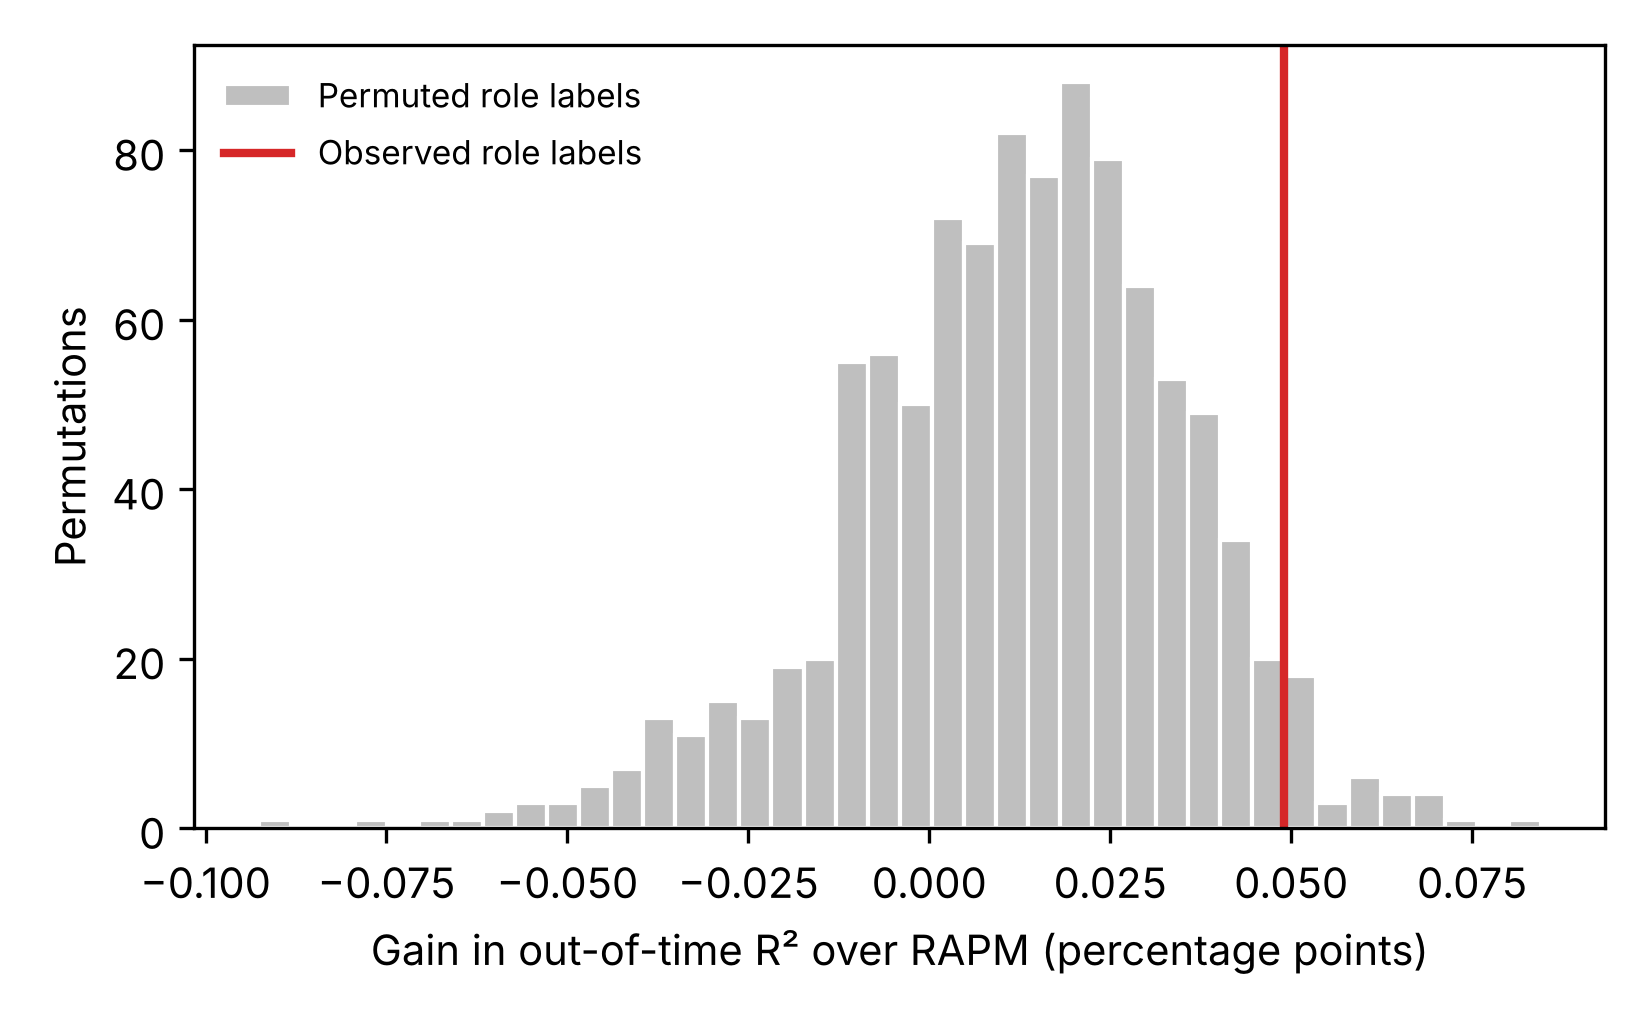
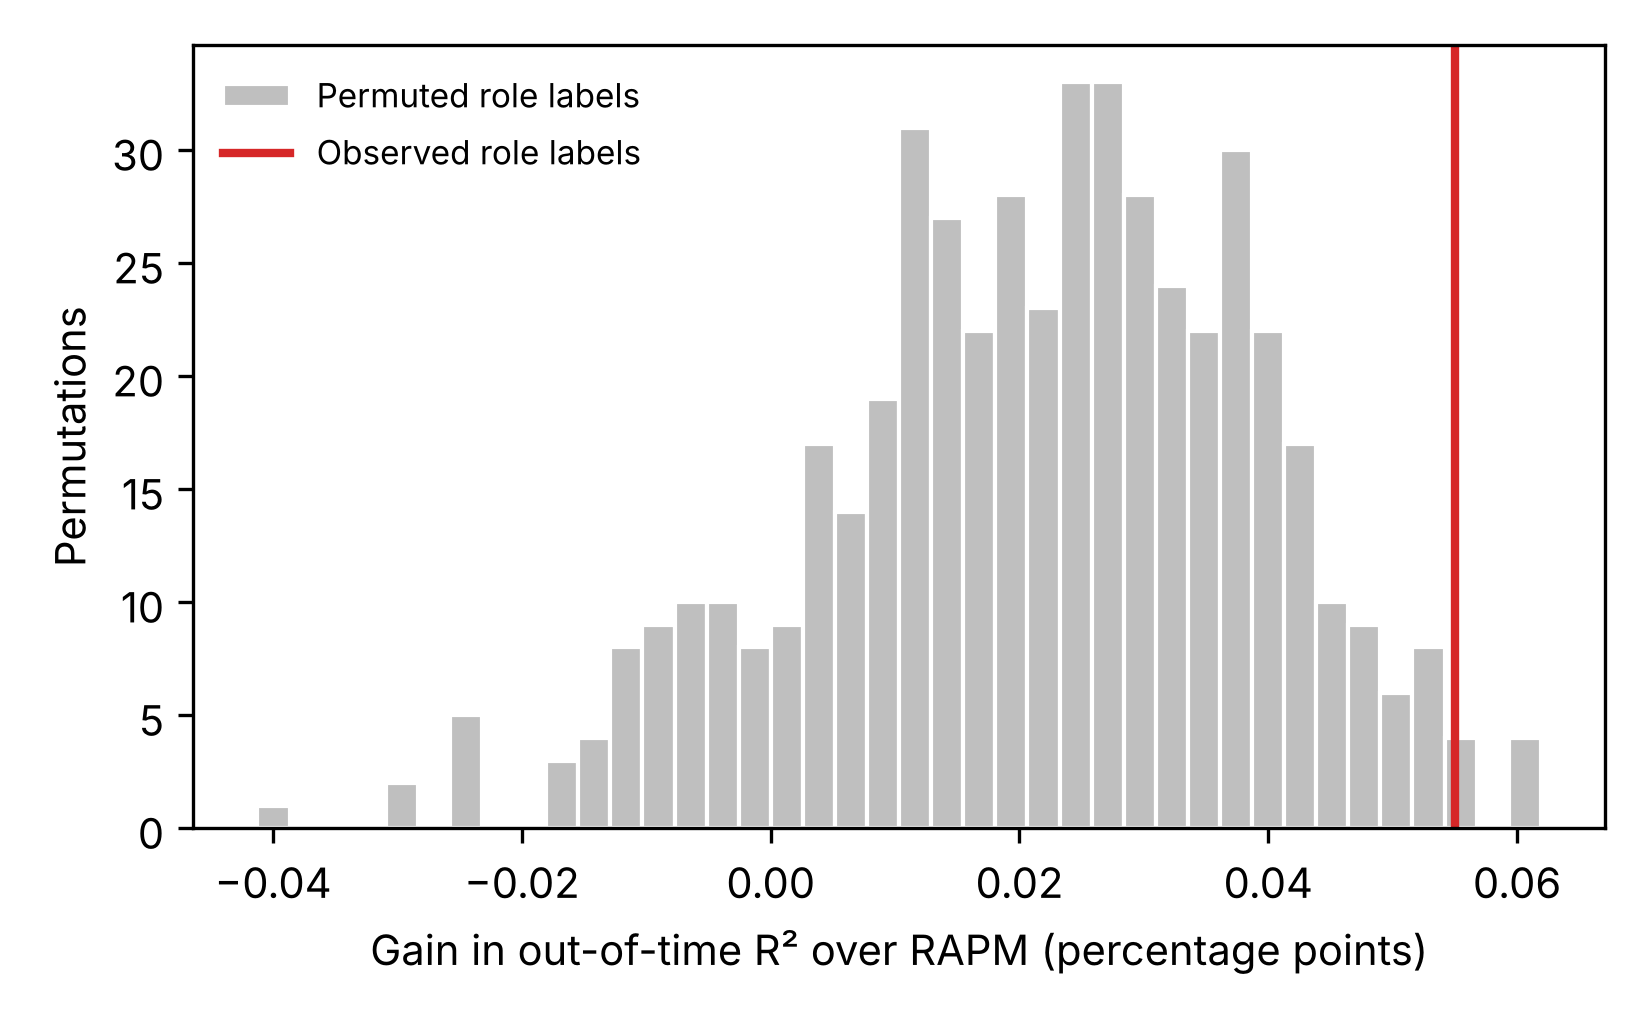
Advisor summary and open questions updated for round-2 results
Claude-Session: https://claude.ai/code/session_01XP9U5PY2Uz3iK7nQqZopPj

diff --git a/drafts/danisman_ozeti.md b/drafts/danisman_ozeti.md
@@ -7,51 +7,51 @@ lang: tr
 
 # En önemli nokta
 
-Tezin üç ana iddiası açık EuroLeague verisiyle (2016–17 → 2024–25, 9 sezon) yeniden sınandı:
+Tezin üç ana iddiası açık EuroLeague verisiyle (2016–17 → 2024–25, 9 sezon, 2.646 maç) yeniden sınandı. İki hakem turundan sonra ulaşılan sonuçlar:
 
-- **Arketipler:** Tezdeki 7 küme birebir yeniden üretildi. Ancak oyuncu düzeyinde yeniden örneklendiğinde bu kümeler kararsız çıktı (ortalama Jaccard ≈ 0,44). Kararlılık ölçütüyle seçilen **5 işlevsel rol** ise yeniden üretilebilir (ortalama Jaccard ≈ 0,84).
-- **"Belirli arketip kombinasyonları daha başarılıdır":** Bireysel oyuncu kalitesi (RAPM) kontrol edildiğinde rol bilgisi küçük bir katkı sağlıyor. Bu katkı **rol sayılarından** geliyor, **rol çiftlerinden (sinerjiden) gelmiyor**. Güç analizine göre küçük sinerjiler de yakalanabilirdi.
-- **VAL/PIR ile ILP beşli seçimi:** PIR, aynı saha etkisine sahip oyuncular arasında iç oyuncuları sistematik olarak yüksek puanlıyor (kısmi η² ≈ 0,33). ILP ile seçilen beşliler, hangi değerle seçilirse seçilsin, antrenörün en çok oynattığı beşliden daha iyi değil. Tüm farkların güven aralıkları 0'ı içeriyor.
+1. **Arketipler.** Tezdeki 7 küme kod düzeyinde birebir yeniden üretildi. Ancak oyuncu düzeyinde yeniden örneklemede kararsız çıktı (ortalama Jaccard ≈ 0,44). Önceden belirlenen kararlılık kuralı **4 işlevsel rol** seçti (Jaccard ≈ 0,89): top taşıyıcı, kanat/forvet, iç uzun ve pota koruyucu. **5 rol** neredeyse aynı kararlılıkta (≈ 0,85); bu çözüm kanat ile açılan forveti ayırıyor.
+2. **"Belirli arketip kombinasyonları daha başarılıdır" iddiası desteklenmedi.** Her sezonun rolleri o sezonun verisiyle belirlendiğinde, rol bileşimi RAPM'in ötesinde anlamlı görünüyordu. Ancak test sezonlarının rolleri yalnızca önceden bilinen bilgiyle verildiğinde etki kayboldu (p ≈ 0,36). Sinerjiyi saptama gücü düşük (en fazla %16); bu nedenle "sinerji yoktur" da denemez.
+3. **VAL/PIR ile ILP beşli seçimi.** PIR, aynı saha etkisine (RAPM) sahip oyuncular arasında pota koruyucu ve iç uzunlara top taşıyıcılardan yaklaşık 4–5 puan/40 dk fazla veriyor (kısmi η² ≈ 0,27). ILP ile seçilen beşliler, antrenörün en çok oynattığı beşliden hiçbir varyantta daha iyi değil: doğrudan farklar −3,6 ile +1,5 arasında ve tümü anlamsız.
 
-Bu sonuçlar tezi çürütmüyor. Tezi düzelten ve sınırlarını çizen iki makale üretiyor.
+Bu çalışma tezi çürütmüyor. Tezin sonuçlarını yöntemsel olarak düzelten ve sınırlarını açıkça çizen iki makale üretiyor.
 
 # Makale A: işlevsel roller
 
-**Başlık:** *Functional player roles in EuroLeague basketball: stability, positional overlap and no evidence of role synergy in lineup performance*
+**Başlık:** *Functional player roles in EuroLeague basketball: stability, positional overlap and no robust added value for lineup performance beyond player quality*
 
-- Yöntem: Gauss karışım modeli (tied kovaryans). K seçimi BIC'e ve oyuncu düzeyinde bootstrap kararlılığına göre yapıldı. Değişkenler ileri istatistikler, şut profili ve asist ağı.
-- Bulunan roller: top taşıyıcı, kanat, açılan forvet, iç uzun ve pota koruyucu. Kanat rolü en az kararlı olanı; K = 4 çözümü duyarlılık analizi olarak raporlanıyor.
-- Pozisyonla ilişki: rol ile pozisyon arasında güçlü bir ilişki var (Cramér V ≈ 0,73). "Pozisyonsuz oyun" yalnızca orta pozisyonlarda (kanat ve forvet) geçerli.
-- Dizilim: rol bileşimi RAPM'in ötesinde küçük bir öngörü kazancı sağlıyor (permütasyon p ≈ 0,04). Kazanç sayı etkilerinden geliyor; çift etkileşimleri ek katkı sağlamıyor.
-- Tezdeki formül testi (χ²) kısa dizilimlerin seçilme yanlılığına duyarlı. Asgari süre koyulunca "anlamlı" kombinasyon sayısı şans düzeyine iniyor.
+- **Yöntem:** Gauss karışım modeli (tied kovaryans) ve oyuncu düzeyinde bootstrap (B = 500, tek koşu). Değişkenler: ileri istatistikler, şut profili ve asist ağı.
+- **Pozisyonla ilişki:** Top taşıyıcıların %92'si guard, pota koruyucuların %90'ı pivot. Kanat/forvet rolü ağırlıkla forvetlerden oluşuyor. Pozisyon örtüşmesi ön alanda (iç uzun: %59 pivot, %39 forvet).
+- **Sızıntı denetimi:** Hakemin önerdiği bu denetim, önceki "anlamlı" bulgunun yeni oyuncuların kalitesine vekâlet eden rol etiketlerinden kaynaklandığını gösterdi.
+- **Tezdeki χ² formül testi:** Kısa dizilimlerin seçilme yanlılığına duyarlı; asgari süre koyulunca "anlamlı" kombinasyon sayısı şans düzeyine iniyor.
 
 # Makale B: oyuncu değeri ve ILP
 
 **Başlık:** *Box-score performance indices depend on player role and show no advantage over coaches' rotations for lineup selection*
 
-- Rolün açıkladığı varyans (η²): PIR40 için ≈ 0,33, VAL40 için ≈ 0,42, RAPM için ≈ 0,01.
-- Bu fark üç ek analizde de korunuyor: RAPM sabit tutulduğunda, PIR bileşeni içermeyen rollerle ve güvenirlik düzeltmesinden sonra.
-- Gelecek sezonları öngörmede (2023–24 test) RAPM, PIR ve VAL toplamlarından daha iyi. Farkların güven aralıkları 0'ı dışlıyor.
-- Sezon içinde yalnızca RAPM tabanlı dizilim değeri ikinci yarıyı anlamlı biçimde öngörüyor. Ancak eşleştirilmiş farklar anlamlı değil.
-- ILP ile antrenörün seçimi arasındaki farklar −1,7 ile +0,4 puan arasında ve tümü anlamsız. ILP beşlileri antrenör beşlisiyle yaklaşık 3 oyuncuyu paylaşıyor.
-- Yorum: Antrenörler kutu skorunda görünmeyen bilgiyi kullanıyor. Buna "optimizer's curse" (gürültülü tahminleri maksimize etmenin bedeli) ekleniyor.
+- **Rolün açıkladığı varyans (η²):** PIR40 için ≈ 0,26, VAL40 için ≈ 0,38, RAPM için ≈ 0,005.
+- **Bulgu sağlam:** Bu fark dört denetimin hepsinde korunuyor:
+  - RAPM sabit tutulduğunda,
+  - ölçüm hatası düzeltildiğinde (2SLS),
+  - PIR bileşeni içermeyen rollerle (iki sürüm),
+  - güvenirlik düzeltmesinden sonra.
+- **Gelecek sezonları öngörme:** RAPM, PIR toplamından daha iyi; farkın güven aralığı 0'ı dışlıyor. Sezon içinde ise ölçütler arası farklar anlamlı değil.
+- **ILP ve antrenör:** Aynı takım-sezon içinde doğrudan karşılaştırıldı. Hiçbir varyantta avantaj yok; güven aralıkları geniş, bu nedenle bulgu "eşdeğerlik" değil, "kanıt yok" olarak raporlandı.
 
 # Kalite güvencesi
 
-- Metindeki tüm sayılar analiz çıktısından otomatik okunuyor; elle sayı yazılmadı.
-- Tüm atıflar DOI'den gelen meta veriyle `references.bib` dosyasına eklendi ve otomatik olarak denetlendi.
-- Literatür karşılaştırmaları tam metinlerden doğrulandı.
-- Her iki makale bir Q1 hakem döngüsünden geçti. İlk turdaki kritik eleştirilerin tamamı yeniden analizle giderildi: oyuncu düzeyinde bootstrap, aşırı parametreli kovaryansın düzeltilmesi, döngüsel boy değişkeninin çıkarılması, cezanın çapraz doğrulamayla seçilmesi, koşullu yanlılık analizi ve eşleştirilmiş ILP testi.
-- Veri ve kod açık; tek komutla yeniden üretilebilir (`make data paper-a paper-b render-all`).
+- **Sayılar:** Metindeki tüm sayılar analiz çıktısından otomatik okunuyor. Kod sürümü, tohum ve paket sürümleri `results.json` içinde kayıtlı.
+- **Atıflar:** Tümü DOI meta verisiyle eklendi ve otomatik denetlendi. Doğrulanamayan iki literatür iddiası (Chen, Wei) metinden çıkarıldı.
+- **Hakem süreci:** Q1 düzeyinde üç hakem turu yapıldı. Her turdaki kritik eleştiriler yeniden analizle giderildi. Bulgular değiştiğinde (5 → 4 rol, anlamlı → anlamsız rol etkisi) dürüstçe raporlandı.
+- **Yeniden üretim:** Veri ve kod açık; tek komutla yeniden üretilebilir: `make data paper-a paper-b render-all`.
 
 # Danışmanla karar verilecek noktalar
 
 1. Yazarlar, sıralama, kurum, fon, çıkar çatışması ve CRediT bilgileri.
-2. Tezin kaynakçada nasıl gösterileceği: YÖK Tez Merkezi numarası gerekiyor.
+2. Tezin kaynakçadaki künyesi: YÖK Tez Merkezi numarası gerekiyor. "Prior dissemination" beyanı hazır.
 3. Hedef dergiler. Öneri: A için *Journal of Sports Sciences* veya *JQAS*; B için *JQAS* veya *European Journal of Sport Science*.
-4. Synergy verisi: Synergy'den yazılı izin alınırsa dış doğrulama olarak (rol ↔ oyun tipi) kullanılabilir. İzin alınana kadar makalelere girmiyor.
-5. Kod ve veri arşivi için Zenodo DOI'si.
-6. Tezde gözden geçirilmesi önerilen noktalar:
+4. Synergy verisi: yazılı izin alınırsa dış doğrulama olarak kullanılabilir. İzin alınana kadar makalelere girmiyor.
+5. Kod ve veri arşivi için Zenodo DOI'si (gönderimden önce).
+6. Tezde düzeltilmesi önerilen noktalar:
    - EK-2.7'deki basılı kod, çalışan koddan farklı.
    - NRTG tanımı tutarsız (100 hücum başına mı, 40 dakika başına mı?).
    - "5.292 dizilim" aslında maç-takım gözlemi sayısı.

diff --git a/manuscript/OPEN_QUESTIONS.md b/manuscript/OPEN_QUESTIONS.md
@@ -75,3 +75,9 @@ Tasarım: her sezon ikiye bölünür; oyuncu değerleri yalnızca kesim öncesi 
 40. ❓ **Synergy data:** the BSL coach's Synergy Excel file is not in either paper or in the repo. It can only be used as external validation (a role ↔ play-type match) once written permission comes from Synergy.
 41. ❓ **Data/code archive:** take a Zenodo DOI for the GitHub release and add it to the "Data availability" sentence.
 42. ⚠ **#31 still open:** `sspe-ask` (paper-qa) could not be run; the comparisons were checked manually against full text (`literature/answers/20261118-...md`). Wei 2025 was checked from the abstract only; get the full text before submission.
+
+## Revision round 2 (2026-11-18)
+43. 🔄 **#34 updated: the main solution is 4 roles.** With a single bootstrap run at B = 500, the decision rule picks K = 4 (Jaccard 0.889 vs 0.848; the difference exceeds the 0.02 threshold and the Monte Carlo error). K = 5 is reported as a finer alternative. The earlier B = 100 run had picked 5 roles; this is stated openly in the Limitations.
+44. 🔄 **#35 reversed: the role-composition gain is leakage.** When test-season roles are taken from the training period, the gain disappears (K4 counts p ≈ 0.36; K5 p ≈ 0.18). The earlier p ≈ 0.04 result came from test-season role labels standing in for new players' quality. The earlier power analysis (≥ 0.8) was invalid; the corrected power is ≤ 0.16 (K4) / ≤ 0.32 (K5). The "no synergy" claim was withdrawn; the result is "inconclusive".
+45. ✅ **Paper B:** the ILP–coach comparison is now direct (within the same team-season, overlapping segments excluded). Differences range from −3.6 to +1.5 and all CIs include 0. Constraint roles come from the previous season (34% of candidates are new to the league and use the current season's role).
+46. ✅ A "Prior dissemination" statement was added to both papers (thesis + companion paper). The thesis bib entry is still waiting on #37.
